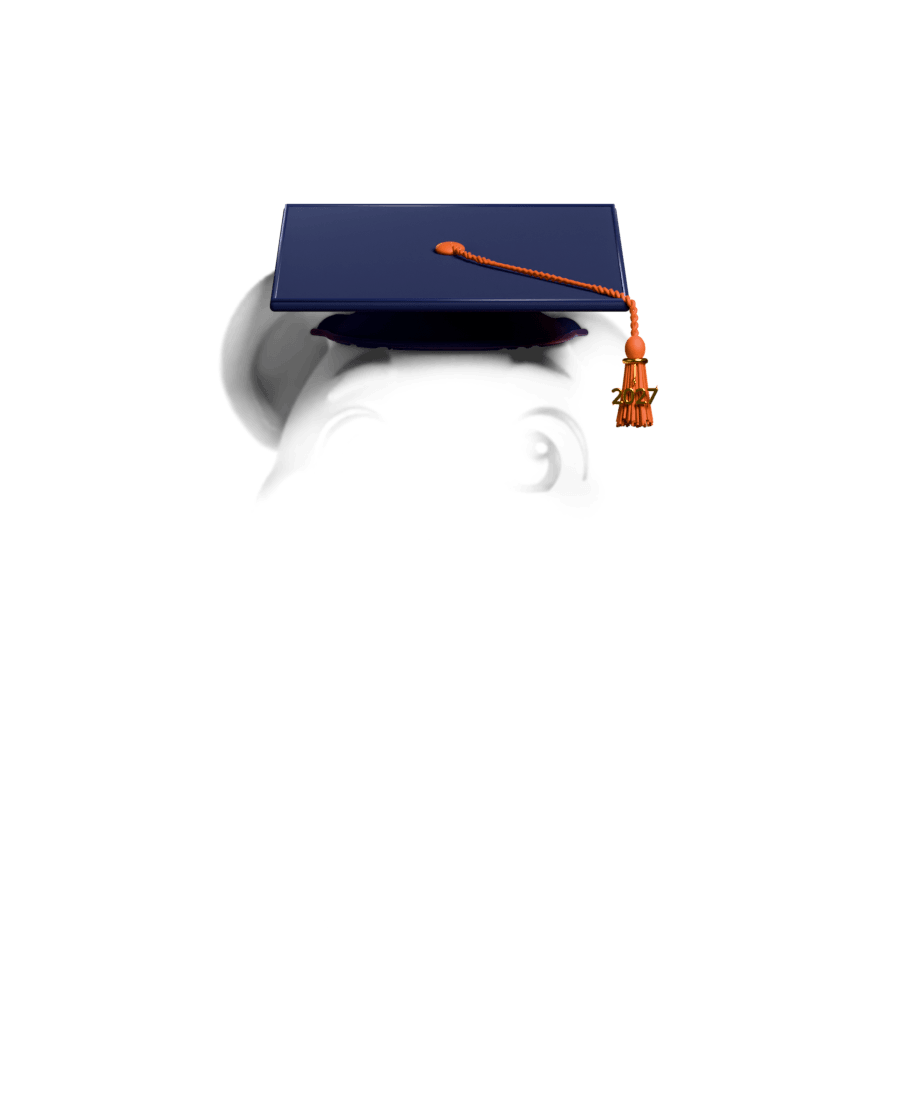
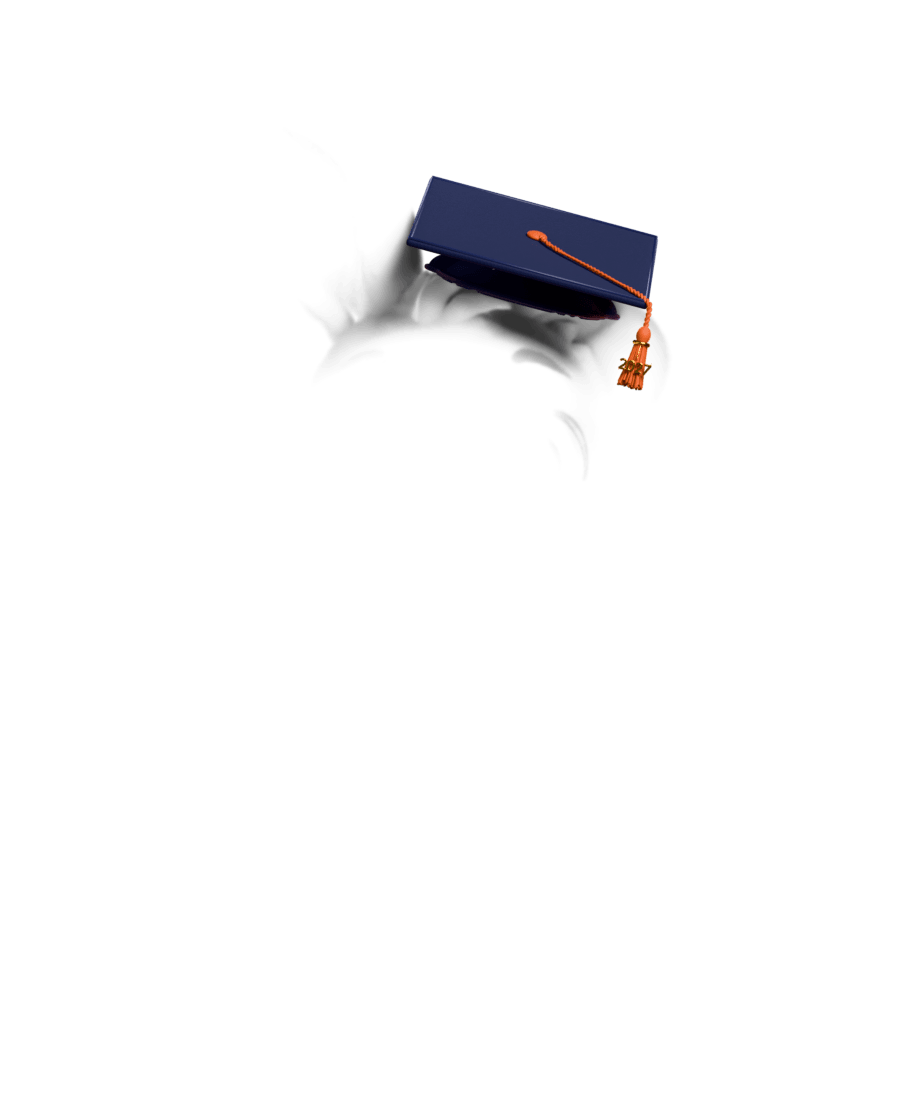
Rabi'yi Giydir: kepte "Bükük Kulak"
Kullanıcı dört seçenek arasından seçti: kep küçülüp sağa kayar ve eğilir,
sol kulak dik kalır, kepin altındaki sağ kulak ortadan aşağı katlanır.
rabi-kep.png ve kep.png bu pozla yeniden alındı.

Changed region(s): [[0.2489, 0.1855, 0.7467, 0.4327], [0.4667, 0.1545, 0.5911, 0.1855], [0.5911, 0.3709, 0.6222, 0.4636]]

diff --git a/lib/giydir.ts b/lib/giydir.ts
@@ -26,9 +26,9 @@ export type Esya = {
   /** Şimdilik hep 0 — arayüzde "Ücretsiz". */
   fiyat: number
   /**
-   * Bu eşya giyiliyken çıplak Rabi yerine alta konan Rabi. Kep takılınca
-   * kulaklar yana sarkıyor: dik kulak kepin içinden çıkınca da, kulak hiç
-   * olmayınca da kötü duruyordu. Eşya katmanı da bu Rabi'ye göre çizildi.
+   * Bu eşya giyiliyken çıplak Rabi yerine alta konan Rabi. Kep takılınca bir
+   * kulak dik kalır, kepin altındaki öteki ortadan bükülür (kullanıcı dört
+   * seçenek arasından seçti). Eşya katmanı da bu Rabi'ye göre çizildi.
    */
   taban?: string
 }
@@ -109,7 +109,7 @@ export function dokun(giyilenler: Giyilenler, id: EsyaId): Giyilenler {
 /**
  * Önizlemenin katman dosyaları, alttan üste: önce Rabi, sonra eşyalar.
  *
- * Alttaki Rabi giyilen bir eşyanın `taban`ı olabilir (kepte sarkık kulaklı
+ * Alttaki Rabi giyilen bir eşyanın `taban`ı olabilir (kepte bükük kulaklı
  * Rabi); bugün yalnız kepte var, ikisi birden olursa üstteki yuvanınki geçer.
  */
 export function katmanlar(giyilenler: Giyilenler): string[] {

diff --git a/docs/kurallar/maskot-ve-ikon.md b/docs/kurallar/maskot-ve-ikon.md
@@ -94,9 +94,9 @@ Rabi proje kurallarının bir parçası — dizin ve genel kurallar: [AGENTS.md]
 
 - Ekran `components/ekranlar/rabi-giydir.tsx`, kurallar `lib/giydir.ts`, kayıt
   `rabi-giydir`. Kaynak model Blender'da (`rabi8_iskelet.blend` + eşyalar,
-  `rabi_giydir3.blend`; kurulum `kur3.py`, katmanlar `katman3.py`, kulak pozu
-  `sarkik.py`, hepsi `giydir-betikleri/` içinde; depoda değil,
-  `Desktop\rabi_tavsan_model`).
+  `rabi_giydir3.blend`; kurulum `kur3.py`, katmanlar `katman3.py`; kep ve kepli
+  Rabi `secenek.py buku` ile alınır (sonucu `rabi_giydir_buku.blend`). Betikler
+  `giydir-betikleri/` içinde; depoda değil, `Desktop\rabi_tavsan_model`).
 - Görseller `public/giydir/`: `rabi.png` + eşya başına tam tuval katman (900×1100,
   **aynı kamera**) ve 256'lık `-ikon.png`. Eşya katmanı Rabi "holdout" iken render
   alınır: Rabi görünmez ama önünde kaldığı yerde eşyayı keser, böylece katmanlar
@@ -107,10 +107,13 @@ Rabi proje kurallarının bir parçası — dizin ve genel kurallar: [AGENTS.md]
   katmanının altına yarı saydam siyah olarak gömülür; gölgesiz eşya yapıştırılmış
   gibi duruyordu. Yer gölgesi ayağın altında elipse kırpılır: anahtar ışık gölgeyi
   sola uzun bir kama gibi atıyor, kartın köşesini karartıyordu.
-- **Kepte kulaklar yana sarkık** (kullanıcı istedi, 2026-10-31): dik kulak kepin
-  içinden çıkınca da, kulak hiç olmayınca da kötü duruyordu. Kep giyiliyken alttaki
-  Rabi `rabi-kep.png` (`Esya.taban`); kep katmanı da o pozla alınır. Tahta sarkık
-  kulak kökünün üstüne oturur, yoksa kök tahtayı delip beyaz çizik bırakıyor.
+- **Kepte "Bükük Kulak"** (kullanıcı seçti, 2026-10-31): kep küçülüp (0,7) sağa
+  kayar ve o yana eğilir; sol kulak dik, kepin altındaki sağ kulak ortadan aşağı
+  katlanır. Denenip beğenilmeyenler: kulak kepin içinden dik, kulaksız, iki yana
+  sarkık, mini kep, geriye yatık, tahtada kulak yuvası. Kep giyiliyken alttaki Rabi
+  `rabi-kep.png` (`Esya.taban`); kep katmanı da o pozla alınır. Dik kulak tahtaya
+  değmeyene dek kep sağa itilir, kulak kökü tahtayı deliyorsa tahta yukarı itilir
+  (yoksa beyaz çizik kalır).
 - **Gözlük camı gözü kapağıyla birlikte içine alır:** küçük camda kapak çizgisi
   çerçevenin dışına taşıp çift çizgi gibi duruyordu. Saplar menteşeden hemen başa
   dalar (yanakta çubuk gibi görünüyordu), camda parıltı şeridi yok (çizik gibi
